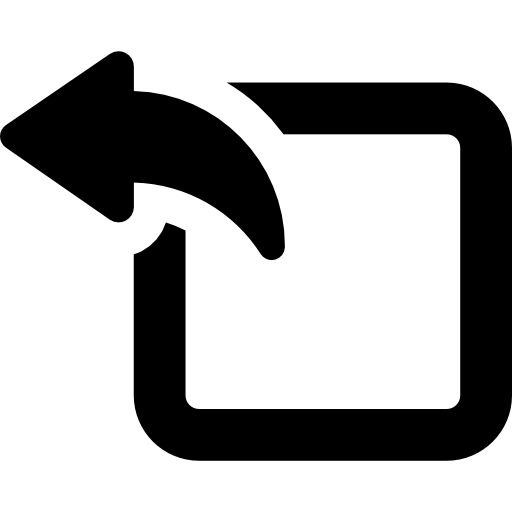
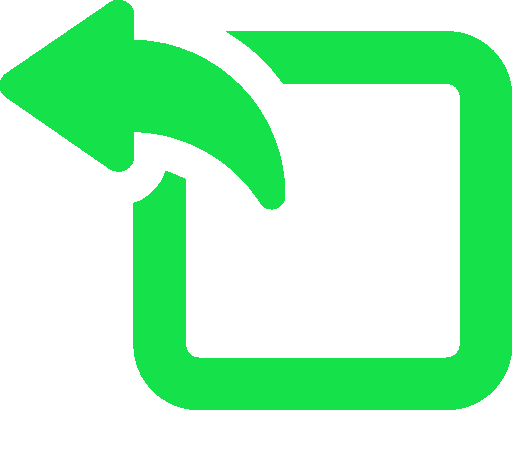
Css (#38)
* search css

* css

* more css edits

diff --git a/front-end/soundsource/src/components/Homepage/Homepage.js b/front-end/soundsource/src/components/Homepage/Homepage.js
@@ -38,24 +38,19 @@ export const Homepage = () => {
   }
 
   function playPlaylist() {
-    axios.get('http://localhost:8080/suggested')
-    .then(response => {
-      if(response.data[0] != null) {
+    axios.get("http://localhost:8080/suggested").then((response) => {
+      if (response.data[0] != null) {
         let count = 0;
         let songString = [];
-        for(var i in response.data)
-        {
+        for (var i in response.data) {
           songString[count] = "spotify:track:" + response.data[count].id;
           count++;
         }
         let linkToAPI = "http://localhost:8080/api/play?q=" + songString;
-        axios.get(linkToAPI)
-        .then(response => {})
+        axios.get(linkToAPI).then((response) => {});
       }
-    })
+    });
   }
-
-
 
   return (
     <div className="homepage">
@@ -68,17 +63,17 @@ export const Homepage = () => {
               <h3>SoundSource Playlist</h3>
             </Col>
             <Col className="text-center">
-              <h3>
+              <h3 className="suggested-btn">
                 Suggested
                 <button className="exportButton" onClick={exportPlaylist}>
                   <img
                     src="/images/export.png"
                     alt="Export Button"
-                    width="40"
+                    width="30px"
                   />
                 </button>
                 <button className="playButton" onClick={playPlaylist}>
-                  <img src="/images/play.png" alt="Play Button" width="40" />
+                  <img src="/images/play.png" alt="Play Button" width="30px" />
                 </button>
               </h3>
             </Col>
@@ -89,16 +84,18 @@ export const Homepage = () => {
           </Row>
           <Row>
             <Col className="text-center">
-              <ul className="playlist">
-                <li>Bad Romance</li>
-                <li className="playlistArtist">Lady Gaga</li>
-                <li>Numb / Encore</li>
-                <li className="playlistArtist">JAY-Z, Linkin Park</li>
-                <li>Off The Grid</li>
-                <li className="playlistArtist">Kanye West</li>
-                <li>Way 2 Sexy</li>
-                <li className="playlistArtist">Drake, Future</li>
-              </ul>
+              <div className="playlist">
+                <ul className="playlistList">
+                  <li className="playlist-song">Bad Romance</li>
+                  <li className="playlistArtist">by Lady Gaga</li>
+                  <li className="playlist-song">Numb / Encore</li>
+                  <li className="playlistArtist">by JAY-Z, Linkin Park</li>
+                  <li className="playlist-song">Off The Grid</li>
+                  <li className="playlistArtist">by Kanye West</li>
+                  <li className="playlist-song">Way 2 Sexy</li>
+                  <li className="playlistArtist">by Drake, Future</li>
+                </ul>
+              </div>
             </Col>
             <Col className="text-center">
               <ul className="suggested">

diff --git a/front-end/soundsource/src/components/Suggested/Suggested.js b/front-end/soundsource/src/components/Suggested/Suggested.js
@@ -4,23 +4,23 @@ import "./Suggested.css";
 export class Suggested extends React.Component {
   state = {
     suggested: [],
-    trackIds: ""
+    trackIds: "",
   };
 
   songInfo = {
     artistName: "",
     trackName: "",
     id: "",
-    upvoteCount: 0
+    upvoteCount: 0,
   };
 
   async componentDidMount() {
-    const response = await fetch('http://localhost:8080/suggested');
+    const response = await fetch("http://localhost:8080/suggested");
     const body = await response.json();
-    this.setState({suggested: body});
+    this.setState({ suggested: body });
   }
 
-  handleIncrementUpvote (suggest){
+  handleIncrementUpvote(suggest) {
     var song = this.songInfo;
 
     song.artistName = suggest.artistName;
@@ -30,40 +30,47 @@ export class Suggested extends React.Component {
 
     console.log(song.upvoteCount);
 
-    var url = 'http://localhost:8080/suggested' + '/'+ song.id;
-    fetch(url,{
-      method: 'PUT',
-      headers: { 'Content-Type': 'application/json' 
-      },
-      body: JSON.stringify( song )
-    }).then((result)=>{
-      result.json().then((res)=>{
-        console.warn('res',res)
-      })
-    })
+    var url = "http://localhost:8080/suggested" + "/" + song.id;
+    fetch(url, {
+      method: "PUT",
+      headers: { "Content-Type": "application/json" },
+      body: JSON.stringify(song),
+    }).then((result) => {
+      result.json().then((res) => {
+        console.warn("res", res);
+      });
+    });
     window.location.reload();
   }
 
   render() {
-    const {suggested} = this.state;
-      return (
-        <div className="suggested">
-          {suggested.map(suggest =>
-            <div key={suggest.id}>
-          <p>
-            {suggest.upvoteCount}
-            <button className = "upvote" onClick={() => this.handleIncrementUpvote(suggest)}><img src="/images/upvote.png" alt="Upvote Button" width = "20"/></button>
-            {suggest.trackName}<br></br>
-            <span>{suggest.artistName}</span>
-          </p>
-        </div>
-        )}
-        </div>
-          
-      );
-    }
+    const { suggested } = this.state;
+    return (
+      <div className="suggested">
+        {suggested.map((suggest) => (
+          <div key={suggest.id}>
+            <p className="suggested-song">
+              <div className="upvote">
+                {suggest.upvoteCount}
+                <button
+                  className="upvote"
+                  onClick={() => this.handleIncrementUpvote(suggest)}
+                >
+                  <img
+                    src="/images/upvote.png"
+                    alt="Upvote Button"
+                    width="20"
+                  />
+                </button>
+              </div>
+              {suggest.trackName}
+            </p>
+            <p className="suggested-artist"> by {suggest.artistName}</p>
+          </div>
+        ))}
+      </div>
+    );
   }
-
-
+}
 
 export default Suggested;

diff --git a/front-end/soundsource/src/components/Homepage/Homepage.css b/front-end/soundsource/src/components/Homepage/Homepage.css
@@ -12,15 +12,22 @@ h3 {
 }
 
 .playlist {
-  list-style-type: none; /* Remove bullets */
-  font-size: 1.4em;
   text-align: left;
   margin-left: 23%;
 }
 
+.playlistList {
+  list-style-type: none; /* Remove bullets */
+}
+
 .playlistArtist {
-  font-size: 0.6em;
-  text-align: left;
+  font-size: medium;
+  margin-left: 15px;
+  margin-top: 0px;
+  margin-bottom: 15px;
+}
+.playlist-song {
+  font: x-large;
 }
 
 .suggested {
@@ -47,7 +54,7 @@ h3 {
 .searchSong:hover {
   background-color: rgb(70, 70, 70);
   cursor: pointer;
-  padding: .2em;
+  padding: 0.2em;
 }
 
 .counterNum {
@@ -56,18 +63,25 @@ h3 {
 }
 
 .exportButton {
-    cursor: pointer;
-    background-color: #15e24b;
-    border: none;
-    margin-right: 2%;
-    margin-left: 2%;
-    padding-right: 1%;
+  cursor: pointer;
+  background-color: transparent;
+  border: none;
+  margin-right: 2%;
+  margin-left: 2%;
+  padding-right: 1%;
 }
 
 .playButton {
   cursor: pointer;
-  background-color: #15e24b;
+  background-color: transparent;
   border: none;
   margin-right: 2%;
   padding-right: 1%;
+}
+
+.suggested-btn {
+  display: flex;
+  flex-direction: row;
+  align-items: center;
+  justify-content: center;
 }

diff --git a/front-end/soundsource/src/components/Suggested/Suggested.css b/front-end/soundsource/src/components/Suggested/Suggested.css
@@ -1,21 +1,34 @@
 .upvote {
-    cursor: pointer;
-    background-color: transparent;
-    border: none;
-    margin-right: 2%;
-    margin-left: 2%;
+  cursor: pointer;
+  background-color: transparent;
+  border: none;
+  margin-right: 2%;
+  margin-left: 2%;
 }
 
-.suggested{
-    list-style-type: none;
-    font-size: 1.2em;
-    text-align: left;
-    margin-left: 0%;
-    line-height: .8em;
-    padding-left: 16%;
+.suggested {
+  display: flex;
+  flex-direction: column;
 }
 
-span{
-    font-size: .7em;
-    padding-left: 10%;
+.suggested-song {
+  font-size: large;
+  display: flex;
+  flex-direction: row;
+  align-items: flex-start;
+  margin: 0px;
+}
+
+.suggested-artist {
+  font-size: medium;
+  margin-left: 47px;
+  margin-top: 0px;
+  margin-bottom: 15px;
+}
+
+.upvote {
+  display: flex;
+  flex-direction: row;
+  font-size: x-large;
+  align-items: baseline;
 }

diff --git a/front-end/soundsource/src/components/SearchBar/SearchBar.css b/front-end/soundsource/src/components/SearchBar/SearchBar.css
@@ -1,5 +1,4 @@
 .searchWrapper {
-  margin-right: 10px;
   display: flex;
   flex-direction: column;
   align-items: center;
@@ -17,8 +16,10 @@
 .searchBtn {
   padding: 2.5px;
 }
+
 p {
   margin: 0px;
+  margin-left: 0px;
 }
 
 .results {
@@ -32,16 +33,18 @@ p {
 
 .song {
   font-size: large;
+  margin-bottom: 0px;
 }
 
 .artist {
-  margin-left: 21px;
+  margin-left: 23px;
+  margin-top: 0px;
 }
 
 .add-btn {
   font-size: x-large;
   text-align: left;
-  color: green;
+  color: #15e24b;
   line-height: 0px;
   text-decoration: none;
 }
